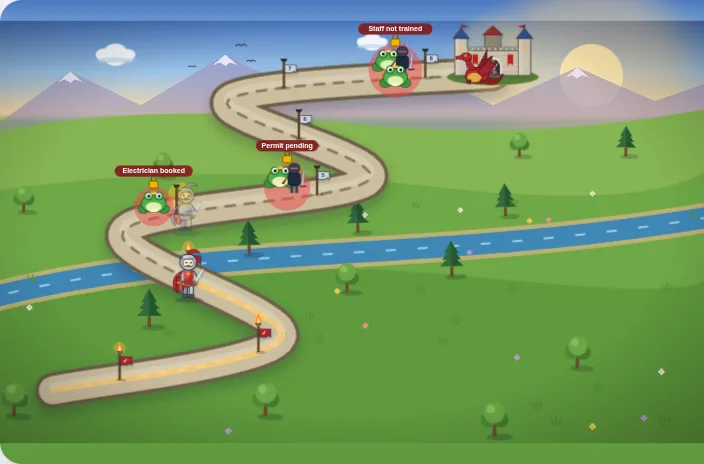
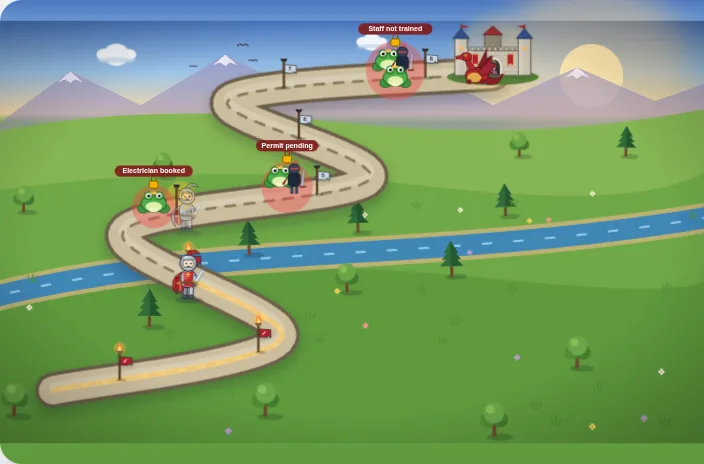
Landing page: the plan first, the game further down
The hero, proof strip and how-it-works lead with planning, Start my day,
blockers and rewards. The feature slides now come straight after the
hero, then the screenshot tour; the Journey worlds and the playable demo
follow, marked optional. The hero picture is the Construction site
overview in 3D, beside the plan's task list, and the world cards keep
their 2D shots. In the feature slides, the Journey moves to last.

Claude-Session: https://claude.ai/code/session_01BCxhj3ZJVrS6LCtbwpNGJK

diff --git a/frontend/landing.html b/frontend/landing.html
@@ -4,7 +4,7 @@
   <meta charset="utf-8">
   <meta name="viewport" content="width=device-width, initial-scale=1">
   <title>Waypoint — Turn a goal into a plan you’ll actually finish</title>
-  <meta name="description" content="Tell the Waypoint assistant your goal and get a phased plan with dated tasks. Then finish it as a game: your character walks your road, beating the blockers you name, across <!--@stagecount--> worlds in 2D and 3D.">
+  <meta name="description" content="Tell the Waypoint assistant your goal and get a phased plan with dated tasks. Start my day sorts what to do next, blockers stay visible until they are sorted, and the people who believe in you can put a reward on the finish. Play it as a game too, if you like.">
   <link rel="icon" href="/icons/icon-192.png" type="image/png">
   <link rel="preconnect" href="https://fonts.googleapis.com">
   <link rel="preconnect" href="https://fonts.gstatic.com" crossorigin>
@@ -123,9 +123,9 @@
         <span class="text-xl font-extrabold tracking-tight"><span class="text-navy">Way</span><span class="text-teal">point</span></span>
       </a>
       <div class="flex items-center gap-5 text-sm">
-        <a href="#try" class="hidden font-semibold text-gray-600 hover:text-navy md:inline">Try it</a>
-        <a href="#stages" class="hidden font-semibold text-gray-600 hover:text-navy md:inline">The game</a>
+        <a href="#features" class="hidden font-semibold text-gray-600 hover:text-navy md:inline">Features</a>
         <a href="#tour" class="hidden font-semibold text-gray-600 hover:text-navy md:inline">Tour</a>
+        <a href="#stages" class="hidden font-semibold text-gray-600 hover:text-navy md:inline">The game</a>
         <a href="#new" class="hidden font-semibold text-gray-600 hover:text-navy md:inline">What's new</a>
         <a href="/app" class="font-semibold text-gray-600 hover:text-navy">Log in</a>
         <a href="/app" class="rounded-lg bg-teal px-4 py-2 font-semibold text-white shadow-lg shadow-teal/30 hover:brightness-110">Get started</a>
@@ -134,17 +134,17 @@
 
     <div class="mx-auto grid max-w-6xl items-center gap-12 px-5 pb-24 pt-8 lg:grid-cols-[1fr_1.15fr] lg:pt-14">
       <div>
-        <p class="inline-flex items-center gap-2 rounded-full bg-[#E6F4F5] px-3.5 py-1.5 text-sm text-[#075E68]" style="font-family:Nunito,sans-serif;font-weight:900">AI planner · <!--@stagecount--> game worlds</p>
+        <p class="inline-flex items-center gap-2 rounded-full bg-[#E6F4F5] px-3.5 py-1.5 text-sm text-[#075E68]" style="font-family:Nunito,sans-serif;font-weight:900">AI planner · Start my day · Rewards</p>
         <h1 class="mt-5 text-4xl font-extrabold leading-[1.04] tracking-tight text-navy md:text-6xl">
-          Turn a goal into a plan,
-          <span class="text-teal">then play it to the finish.</span>
+          Turn a goal into a plan
+          <span class="text-teal">you'll actually finish.</span>
         </h1>
         <p class="mt-6 max-w-xl text-lg leading-relaxed text-gray-600">
-          Tell the assistant what you want, by voice or text, and get a phased plan with dated tasks. Each morning, Start my day sorts what's next and gets you going with your music. Every task you finish moves your character down the road, and the people who believe in you can put a reward on the finish line.
+          Tell the assistant what you want, by voice or text, and get a phased plan with dated tasks. Each morning, Start my day sorts what's next and gets you going. Blockers stay in sight until they're sorted, and the people who believe in you can put a reward on the finish line.
         </p>
         <div class="mt-8 flex flex-wrap items-center gap-4">
           <a href="/app" class="rounded-xl bg-teal px-6 py-3.5 text-base font-bold text-white shadow-xl shadow-teal/30 hover:brightness-110">Start free</a>
-          <a href="#try" class="rounded-xl border border-gray-300 bg-white px-6 py-3.5 text-base font-bold text-navy hover:border-teal">Try it, no sign-up</a>
+          <a href="#features" class="rounded-xl border border-gray-300 bg-white px-6 py-3.5 text-base font-bold text-navy hover:border-teal">See what it does</a>
         </div>
         <p class="mt-5 text-sm text-gray-500">Works in any browser, on Android, and on iPhone once added to your Home Screen.</p>
       </div>
@@ -155,7 +155,7 @@
           <div class="flex items-center gap-1.5 border-b border-white/10 bg-navy/60 px-4 py-3">
             <span class="h-2.5 w-2.5 rounded-full bg-white/20"></span><span class="h-2.5 w-2.5 rounded-full bg-white/20"></span><span class="h-2.5 w-2.5 rounded-full bg-white/20"></span>
           </div>
-          <img src="/showcase/journey.webp" alt="The Journey: a character walking the road of a real plan, with its tasks and blockers listed below" width="1280" height="800" fetchpriority="high" class="w-full bg-navy">
+          <img src="/showcase/journey.webp" alt="A real plan as a build site: each phase of the project is a stage of the building, with the tasks, dates and blockers listed beside it" width="1280" height="800" fetchpriority="high" class="w-full bg-navy">
         </div>
         <img src="/showcase/phone.webp" alt="Waypoint on a phone" width="390" height="844" class="float-y shot absolute -bottom-10 -left-6 hidden w-36 rounded-[1.6rem] border-4 border-white sm:block lg:-left-14 lg:w-44">
       </div>
@@ -166,8 +166,23 @@
   <section class="border-b border-gray-100 bg-white">
     <div class="mx-auto grid max-w-6xl gap-6 px-5 py-8 text-center text-sm font-semibold text-navy sm:grid-cols-3">
       <p class="proof"><span data-icon="mic"></span>Plans from a sentence, typed or spoken</p>
-      <p class="proof"><span data-icon="map"></span><!--@stagecount--> worlds to play your plan in, 2D or 3D</p>
+      <p class="proof"><span data-icon="play"></span>Start my day sorts today in one tap</p>
       <p class="proof"><span data-icon="shield"></span>You approve every change the AI suggests</p>
+    </div>
+  </section>
+
+  <!-- Features -->
+  <section id="features" class="scroll-mt-6 bg-white py-20">
+    <div class="mx-auto max-w-6xl px-5">
+      <div class="reveal mx-auto max-w-2xl text-center">
+        <p class="text-sm font-bold uppercase tracking-widest text-teal">Built to get you moving</p>
+        <h2 class="mt-3 text-3xl font-extrabold tracking-tight text-navy md:text-4xl">The features that keep a plan alive</h2>
+        <p class="mt-4 text-gray-600">The same slides that greet you on your dashboard. Tap through, or let them play.</p>
+      </div>
+      <!-- The same story-style slides as the app's "This week" card, one
+           per feature (frontend/data/product.json → tour). -->
+      <div class="tour reveal mt-14"><!--@tour-->
+      </div>
     </div>
   </section>
 
@@ -191,47 +206,15 @@
         </div>
         <div class="reveal rounded-2xl border border-gray-200 bg-white p-7 shadow-sm">
           <div class="flex h-11 w-11 items-center justify-center rounded-xl bg-teal text-lg font-extrabold text-white">3</div>
-          <h3 class="mt-5 text-lg font-bold text-navy">Play it through</h3>
-          <p class="mt-2 leading-relaxed text-gray-600">Finish tasks to move along your road, beat the blockers in your way, and keep your streak alive with reminders and a weekly check-in.</p>
+          <h3 class="mt-5 text-lg font-bold text-navy">See it through</h3>
+          <p class="mt-2 leading-relaxed text-gray-600">Start my day picks what's next, reminders and a weekly check-in keep you on track, and blockers stay in sight until they're sorted. Prefer a game? Play your plan as one.</p>
         </div>
       </div>
     </div>
   </section>
 
-  <!-- Try it: a playable sample plan, no account (data from backend/templates.js via landing.js) -->
-  <section id="try" class="scroll-mt-6 bg-white py-20">
-    <div class="mx-auto max-w-5xl px-5">
-      <div class="reveal mx-auto max-w-2xl text-center">
-        <p class="text-sm font-bold uppercase tracking-widest text-teal">Try it now</p>
-        <h2 class="mt-3 text-3xl font-extrabold tracking-tight text-navy md:text-4xl">Pick a goal and play the first steps</h2>
-        <p class="mt-4 text-lg leading-relaxed text-gray-600">No sign-up. Tick tasks off, beat the blocker, and watch yourself move down the road.</p>
-      </div>
-      <form class="demo-ask" id="demo-ask" autocomplete="off">
-        <label for="demo-goal" class="sr-only">Your goal</label>
-        <input id="demo-goal" type="text" maxlength="80" placeholder="Type a goal, e.g. get a job in the NHS">
-        <button type="submit">Show me a plan</button>
-      </form>
-      <div class="demo-picks" id="demo-picks" role="group" aria-label="Sample goals"></div>
-      <div class="demo-board" id="demo-board" aria-live="polite"></div>
-    </div>
-    <script type="application/json" id="demo-data"><!--@demo--></script>
-  </section>
-
-  <!-- The Journey stages: one card per stage, from product.json -->
-  <section id="stages" class="scroll-mt-6 bg-white py-20">
-    <div class="mx-auto max-w-6xl px-5">
-      <div class="reveal mx-auto max-w-2xl text-center">
-        <p class="text-sm font-bold uppercase tracking-widest text-teal">The Journey</p>
-        <h2 class="mt-3 text-3xl font-extrabold tracking-tight text-navy md:text-4xl">Your plan, as a game you want to finish</h2>
-        <p class="mt-4 text-lg leading-relaxed text-gray-600">Pick a world. Each task is a stop on the road, and each blocker you name ("waiting on the landlord") shows up as an enemy your character has to deal with. Switch between 2D and full 3D any time.</p>
-      </div>
-      <div class="mt-14 grid gap-6 sm:grid-cols-2 lg:grid-cols-4"><!--@stages-->
-      </div>
-    </div>
-  </section>
-
   <!-- Product tour: live screenshots of the main screens -->
-  <section id="tour" class="scroll-mt-6 bg-gray-50 py-20">
+  <section id="tour" class="scroll-mt-6 bg-white py-20">
     <div class="mx-auto max-w-6xl px-5">
       <div class="reveal mx-auto max-w-2xl text-center">
         <p class="text-sm font-bold uppercase tracking-widest text-teal">A real planner underneath</p>
@@ -251,19 +234,36 @@
     </div>
   </section>
 
-  <!-- Features -->
-  <section id="features" class="scroll-mt-6 bg-white py-20">
+  <!-- The Journey stages: one card per stage, from product.json -->
+  <section id="stages" class="scroll-mt-6 bg-gray-50 py-20">
     <div class="mx-auto max-w-6xl px-5">
       <div class="reveal mx-auto max-w-2xl text-center">
-        <p class="text-sm font-bold uppercase tracking-widest text-teal">Built to get you moving</p>
-        <h2 class="mt-3 text-3xl font-extrabold tracking-tight text-navy md:text-4xl">The features that keep a plan alive</h2>
-        <p class="mt-4 text-gray-600">The same slides that greet you on your dashboard. Tap through, or let them play.</p>
+        <p class="text-sm font-bold uppercase tracking-widest text-teal">The Journey · optional</p>
+        <h2 class="mt-3 text-3xl font-extrabold tracking-tight text-navy md:text-4xl">Like a game? Play your plan as one</h2>
+        <p class="mt-4 text-lg leading-relaxed text-gray-600">Pick a world. Each task is a stop on the road, and each blocker you name ("waiting on the landlord") shows up as an enemy your character has to deal with. Switch between 2D and full 3D any time.</p>
       </div>
-      <!-- The same story-style slides as the app's "This week" card, one
-           per feature (frontend/data/product.json → tour). -->
-      <div class="tour reveal mt-14"><!--@tour-->
+      <div class="mt-14 grid gap-6 sm:grid-cols-2 lg:grid-cols-4"><!--@stages-->
       </div>
     </div>
+  </section>
+
+  <!-- Try it: a playable sample plan, no account (data from backend/templates.js via landing.js) -->
+  <section id="try" class="scroll-mt-6 bg-white py-20">
+    <div class="mx-auto max-w-5xl px-5">
+      <div class="reveal mx-auto max-w-2xl text-center">
+        <p class="text-sm font-bold uppercase tracking-widest text-teal">Try it now</p>
+        <h2 class="mt-3 text-3xl font-extrabold tracking-tight text-navy md:text-4xl">Pick a goal and try the first steps</h2>
+        <p class="mt-4 text-lg leading-relaxed text-gray-600">No sign-up. Tick tasks off, clear the blocker, and watch the plan move forward.</p>
+      </div>
+      <form class="demo-ask" id="demo-ask" autocomplete="off">
+        <label for="demo-goal" class="sr-only">Your goal</label>
+        <input id="demo-goal" type="text" maxlength="80" placeholder="Type a goal, e.g. get a job in the NHS">
+        <button type="submit">Show me a plan</button>
+      </form>
+      <div class="demo-picks" id="demo-picks" role="group" aria-label="Sample goals"></div>
+      <div class="demo-board" id="demo-board" aria-live="polite"></div>
+    </div>
+    <script type="application/json" id="demo-data"><!--@demo--></script>
   </section>
 
   <!-- What's new: the latest entries from product.json -->
@@ -297,7 +297,7 @@
         </div>
         <div class="reveal rounded-2xl bg-white p-8 shadow-sm">
           <p class="text-base font-bold text-navy">Anyone who finds starting hard</p>
-          <p class="mt-3 leading-relaxed text-gray-600">If you own a graveyard of to-do apps, the list isn't the problem. A game you want to win is a better reason to keep going.</p>
+          <p class="mt-3 leading-relaxed text-gray-600">If you own a graveyard of to-do apps, the list isn't the problem. One clear next step each morning, and a reason to take it, is what keeps you going.</p>
         </div>
       </div>
     </div>

diff --git a/backend/showcase.js b/backend/showcase.js
@@ -180,7 +180,7 @@ async function capture({ base, cookie, projectId, ids }, outDir) {
       const scene = await page.$('#mountain-scene-wrap');
       if (scene) await save(scene, `stage-${stage}.webp`);
     }
-    await page.evaluate(() => { setJourneyTheme('football'); setJourneyView('3d', 'follow'); });
+    await page.evaluate(() => { setJourneyTheme('construction'); setJourneyView('3d', 'overview'); });
     try {
       await page.waitForFunction(() => { const c = document.getElementById('mountain-scene'); return c._j3d && c._j3d._debug.state.ready; }, { timeout: 90000 });
       await sleep(2500);

diff --git a/tests/api.test.js b/tests/api.test.js
@@ -28,7 +28,7 @@ test('registration with accepted terms succeeds and issues a session', async () 
 
 test('signed-out visitors see the landing page at /', async () => {
   const html = await (await fetch(`${server.base}/`)).text();
-  assert.match(html, /Turn a goal into a plan,/);
+  assert.match(html, /Turn a goal into a plan\s+<span class="text-teal">you'll actually finish/);
 });
 
 test('/app always serves the application shell', async () => {
